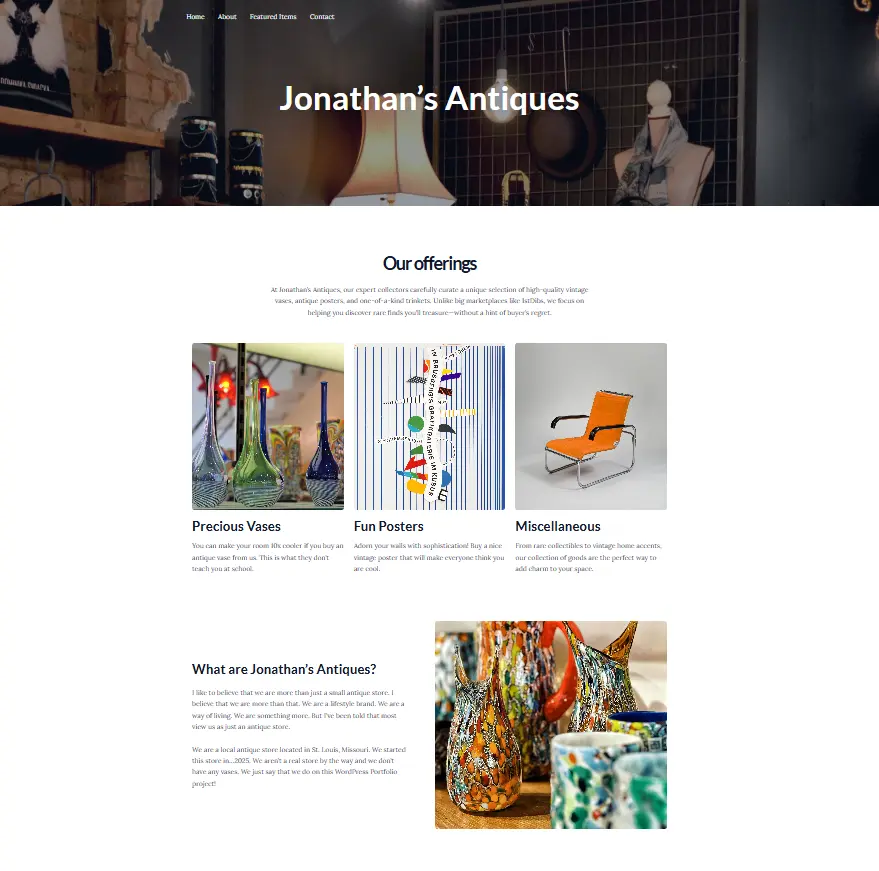
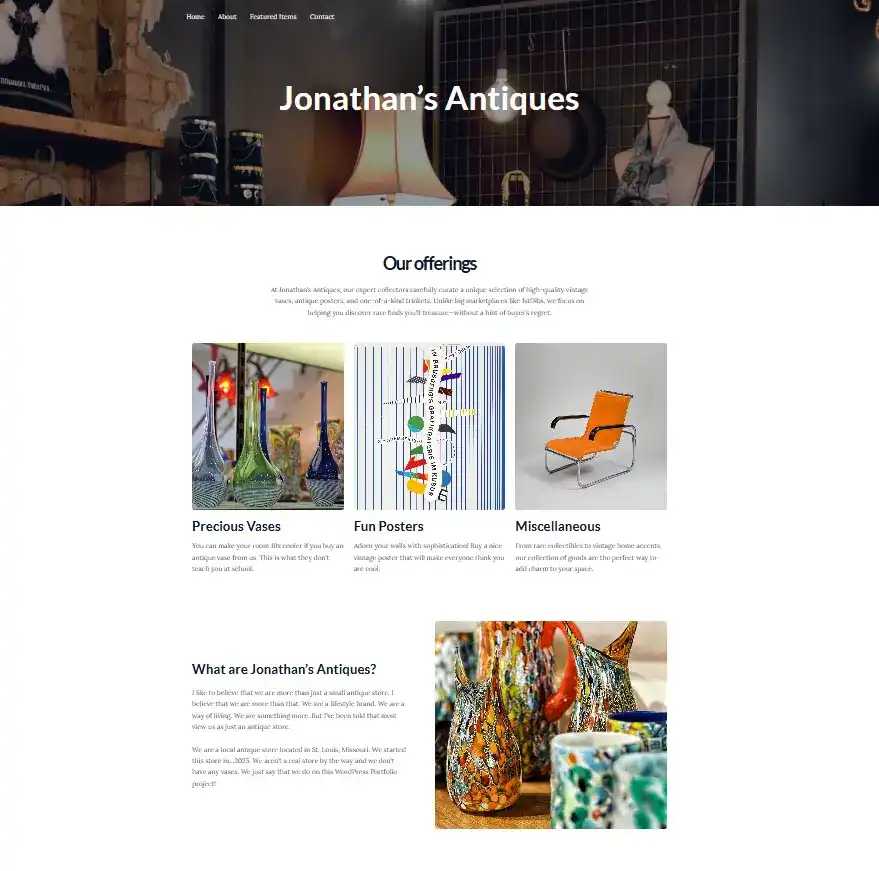
Compressed images and changed h5s into ps to improve Google Lighthouse rating

diff --git a/index.html b/index.html
@@ -77,9 +77,7 @@
     <main>
       <!-- About Me -->
       <section class="container my-3 cta-section" id="about">
-        <h1 class="my-3">
-          Affordable Freelance Web Developer for Small Businesses
-        </h1>
+        <h1 class="my-3">Affordable Web Designs for Small Businesses</h1>
         <p class="my-2 fs-2">
           Elevate your brand without needing to be a tech nerd
         </p>
@@ -190,7 +188,7 @@
                 />
               </a>
               <div class="card-body">
-                <h5 class="card-title">Audio Engineer Website</h5>
+                <p class="card-title">Audio Engineer Website</p>
                 <p class="card-text">
                   I designed and built a custom website for my audio engineer
                   friend.
@@ -209,7 +207,7 @@
                 />
               </a>
               <div class="card-body">
-                <h5 class="card-title">Fictional Business Blog</h5>
+                <p class="card-title">Fictional Business Blog</p>
                 <p class="card-text">
                   This website was a hands-on project I created to strengthen my
                   skills in responsive design and gain experience with SEO
@@ -229,7 +227,7 @@
                 />
               </a>
               <div class="card-body">
-                <h5 class="card-title">Antique Store Website</h5>
+                <p class="card-title">Antique Store Website</p>
                 <p class="card-text">
                   I designed and developed a fictional antique store website
                   using WordPress.

diff --git a/styles.css b/styles.css
@@ -1,7 +1,7 @@
 :root {
   --main-color: #4ad9ca;
   --secondary-color: #1a2847;
-  --dark-color: #2a9b8f;
+  --dark-color: #25837d;
 }
 
 body {
